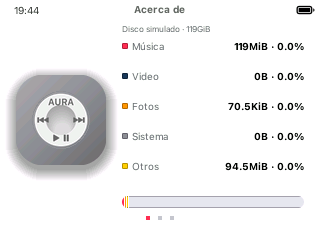
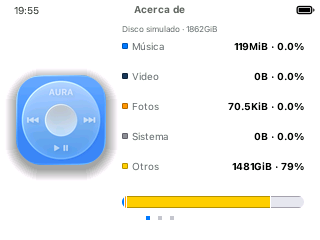
D-285: se retira el perfil de disco del sim (medicion dependiente del dispositivo); icono de Aura nuevo a tile completo, uno por tema
filesystem-unix.c vuelve exacto al estado previo a D-284: volume_size()
reporta el disco real (host en el sim, FAT del iPod en hardware). Se
conservan la linea de identidad SSD/HDD, la pagina 2 en secciones y los
albumes.

Icono: dos PNG del dueno -> aura_badge-light.bmp (tema claro, azul
claro) y aura_badge-dark.bmp (tema oscuro, fondo oscuro), 90x90 a tile
completo (tile_icons.items.aura_badge themed:true, size 90). El icono
trae radio del 31% = el del tile (28px), asi que la silueta coincide.
draw_about_icon_renderer() elige por tema y recarga si cambia. El tile
ahora redondea esquinas DESPUES del renderer (misma mascara para tiles
de simbolo y de imagen completa). Fuente aplanada de D-269 retirada.

Sim/ARM limpios, tests 8/8, capturas en ambos temas.

diff --git a/firmware/rockbox/apps/aura/aura_screens.c b/firmware/rockbox/apps/aura/aura_screens.c
@@ -1714,39 +1714,49 @@ static const char *clock_row_top_text(void)
     return buf;
 }
 
-/* Badge real de Aura (D-269, encargo del dueno de producto): a color
+/* Icono real de Aura (D-269, encargo del dueno de producto): a color
  * completo, NO un glifo monocromo para tenir -- reemplaza el "ipod"
  * blanco de D-263/D-264 SOLO en el icono de SelectionSummary de "Acerca
  * de" (el icono de la FILA en la lista, settings_entries[]="info", NO
  * cambia -- el dueno lo pidio explicito: "el icono que aparece en el
  * left panel no debe cambiar"). Horneado por design-system/generate.py
- * (generate_tile_icons()) a partir de un bundle .icon de Icon Composer
- * que el dueno compartio -- aplanado a mano (seis capas SVG
- * individuales, compuestas segun su propio icon.json) porque Aura no
- * tiene un renderer de Icon Composer real. Cargado UNA vez por sesion
- * (cache por bandera, nunca cambia en tiempo de ejecucion) -- mismo
- * patron read_bmp_file() que ensure_panel_background() en
- * aura_selection_summary.c (D-267), pero con lcd_bitmap_transparent()
- * (clave magenta, D-010) en vez de un blit opaco: el badge es un
- * circulo, sus 4 esquinas deben dejar ver el degradado del tile
- * detras. */
+ * (generate_tile_icons()). D-269 lo aplano a mano de un bundle .icon de
+ * Icon Composer como badge circular de 60px; D-285 lo reemplaza por las
+ * dos imagenes PNG que el dueno entrego (una por tema) a tile completo.
+ * Mismo patron read_bmp_file() que ensure_panel_background() (D-267),
+ * con lcd_bitmap_transparent() (clave magenta, D-010): las esquinas
+ * transparentes del icono dejan ver el fondo restaurado. */
 static fb_data s_aura_badge_pixels[AURA_DS_METRICS_TILE_ICONS_ITEMS_AURA_BADGE_SIZE
                                     * AURA_DS_METRICS_TILE_ICONS_ITEMS_AURA_BADGE_SIZE];
-static bool s_aura_badge_loaded = false;
+static int  s_aura_badge_theme = -1;   /* tema con el que se cargo el buffer */
 static bool s_aura_badge_ok = false;
 
+/* D-285 (encargo del dueno, dos imagenes del icono de Aura): el badge deja
+ * de ser un circulo de 60px sobre el degradado gris y pasa a ser la IMAGEN
+ * COMPLETA del icono cubriendo el tile de 90px -- una version por tema
+ * (aura_badge-light.bmp para el claro, aura_badge-dark.bmp para el oscuro,
+ * decision de asignacion: el icono de fondo oscuro va con el tema oscuro).
+ * El icono trae su propio cuadrado redondeado con radio del 31% (medido
+ * en la fuente: 317/1024), el mismo 31% (28px) del tile de D-236 -- por
+ * eso el recorte de esquinas del tile (que ahora corre DESPUES del
+ * renderer, ver aura_selection_summary_draw_tile) no deja crecientes y la
+ * silueta coincide con los demas tiles. Se recarga si el usuario cambia
+ * de tema en la sesion. La fila de la lista sigue con su icono "info"
+ * (regla de D-269: solo SelectionSummary). */
 static void draw_about_icon_renderer(int cx, int cy, int size)
 {
     enum { SZ = AURA_DS_METRICS_TILE_ICONS_ITEMS_AURA_BADGE_SIZE };
+    int theme = (aura_settings.theme == AURA_THEME_DARK) ? 1 : 0;
 
-    if (!s_aura_badge_loaded)
+    if (s_aura_badge_theme != theme)
     {
         char path[MAX_PATH];
         struct bitmap bm;
         int ret;
 
-        s_aura_badge_loaded = true;
-        snprintf(path, sizeof(path), "%s/aura/tile-icons/aura_badge.bmp", ICON_DIR);
+        s_aura_badge_theme = theme;
+        snprintf(path, sizeof(path), "%s/aura/tile-icons/aura_badge-%s.bmp", ICON_DIR,
+                 theme ? "dark" : "light");
         bm.data = (char *)s_aura_badge_pixels;
         ret = read_bmp_file(path, &bm, sizeof(s_aura_badge_pixels), FORMAT_NATIVE, NULL);
         s_aura_badge_ok = (ret > 0 && bm.width == SZ && bm.height == SZ);

diff --git a/firmware/rockbox/firmware/target/hosted/filesystem-unix.c b/firmware/rockbox/firmware/target/hosted/filesystem-unix.c
@@ -212,83 +212,12 @@ int os_opendir_and_fd(const char *osdirname, DIR **osdirpp, int *osfdp)
     return rc;
 }
 
-#ifdef SIMULATOR
-#include <stdlib.h>
-#include <dirent.h>
-#include <stdio.h>
-
-/* Aura (D-284): el simulador reportaba el disco del HOST (statfs sobre
- * la carpeta simdisk -> el SSD de la Mac, ~2 TB), asi que "Acerca de"
- * mostraba una capacidad que ningun iPod tiene. Perfil de disco de iPod
- * para el simulador: capacidad fija de 128 GB decimales (122070 MiB, lo
- * que trae el iPod del dueno con SSD de 128 GB), y el "usado" es la suma
- * REAL de bytes que hay dentro de simdisk (recorrido del host, milisegundos)
- * -- no se inventa espacio ocupado: el disco simulado contiene exactamente
- * lo que contiene simdisk. Variable de entorno AURA_SIM_DISK_MIB para
- * probar otras capacidades; AURA_SIM_DISK_MIB=0 vuelve al statfs del host
- * (comportamiento original de Rockbox). Solo SIMULATOR, nunca hardware. */
-#define AURA_SIM_DEFAULT_DISK_MIB 122070ULL
-
-static unsigned long long sim_dir_bytes(const char *path, int depth)
-{
-    DIR *d;
-    struct dirent *e;
-    unsigned long long total = 0;
-    char child[MAX_PATH];
-
-    if (depth > 24 || !(d = opendir(path)))
-        return 0;
-    while ((e = readdir(d)) != NULL)
-    {
-        struct stat st;
-        if (e->d_name[0] == '.' && (e->d_name[1] == '\0'
-            || (e->d_name[1] == '.' && e->d_name[2] == '\0')))
-            continue;
-        if (snprintf(child, sizeof(child), "%s/%s", path, e->d_name) >= (int)sizeof(child))
-            continue; /* ruta demasiado larga para el buffer: se omite */
-        if (lstat(child, &st) != 0)
-            continue;
-        if (S_ISDIR(st.st_mode))
-            total += sim_dir_bytes(child, depth + 1);
-        else if (S_ISREG(st.st_mode))
-            total += (unsigned long long)st.st_size;
-    }
-    closedir(d);
-    return total;
-}
-
-static bool sim_volume_profile(const char *volpath, sector_t *sizep, sector_t *freep)
-{
-    const char *env = getenv("AURA_SIM_DISK_MIB");
-    unsigned long long disk_mib = env ? strtoull(env, NULL, 10) : AURA_SIM_DEFAULT_DISK_MIB;
-    unsigned long long total_kib, used_kib;
-
-    if (disk_mib == 0)
-        return false; /* escape: statfs real del host */
-
-    total_kib = disk_mib * 1024ULL;
-    used_kib = (sim_dir_bytes(volpath, 0) + 1023ULL) / 1024ULL;
-    if (used_kib > total_kib)
-        used_kib = total_kib;
-
-    if (sizep) *sizep = (sector_t)total_kib;
-    if (freep) *freep = (sector_t)(total_kib - used_kib);
-    return true;
-}
-#endif /* SIMULATOR */
-
 /* do we really need this in the app? (in the sim, yes) */
 void volume_size(IF_MV(int volume,) sector_t *sizep, sector_t *freep)
 {
     sector_t size = 0, free = 0;
     char volpath[MAX_PATH];
     struct statfs fs;
-
-#ifdef SIMULATOR
-    if (os_volume_path(IF_MV(volume,) volpath, sizeof (volpath)) >= 0
-        && sim_volume_profile(volpath, sizep, freep))
-        return;
-#endif
 
     if (os_volume_path(IF_MV(volume,) volpath, sizeof (volpath)) >= 0
         && !statfs(volpath, &fs))

diff --git a/design-system/generate.py b/design-system/generate.py
@@ -634,29 +634,34 @@ def generate_tile_icons(tokens):
     TRANSPARENT_RGB = (255, 0, 255)
 
     for name, spec in cfg["items"].items():
-        src_path = src_dir / f"{name}-source.png"
-        if not src_path.exists():
-            die(f"falta {src_path} (icono de tile '{name}', declarado en "
-                f"aura_ds.metrics.tile_icons.items)")
-        size = spec["size"]
-        bg_rgb = hex_to_rgb(spec["compose_bg_hex"])
+        # D-285: 'themed' -> una fuente y una salida por tema
+        # (<name>-light / <name>-dark); si no, una sola (<name>).
+        variants = ["light", "dark"] if spec.get("themed") else [None]
+        for theme in variants:
+            stem = f"{name}-{theme}" if theme else name
+            src_path = src_dir / f"{stem}-source.png"
+            if not src_path.exists():
+                die(f"falta {src_path} (icono de tile '{name}', declarado en "
+                    f"aura_ds.metrics.tile_icons.items)")
+            size = spec["size"]
+            bg_rgb = hex_to_rgb(spec["compose_bg_hex"])
 
-        img = Image.open(src_path).convert("RGBA")
-        img = img.resize((size, size), Image.LANCZOS)
+            img = Image.open(src_path).convert("RGBA")
+            img = img.resize((size, size), Image.LANCZOS)
 
-        out_img = Image.new("RGB", (size, size), TRANSPARENT_RGB)
-        bg_img = Image.new("RGB", (size, size), bg_rgb)
-        alpha = img.split()[3]
-        composed = Image.composite(img.convert("RGB"), bg_img, alpha)
-        # Solo cobertura EXACTAMENTE cero se queda como clave de
-        # transparencia -- cualquier otra cosa (incluido el borde
-        # antialiasado) ya quedo pre-compuesta contra bg_rgb arriba.
-        zero_mask = alpha.point(lambda a: 255 if a == 0 else 0)
-        out_img.paste(composed, (0, 0))
-        out_img.paste(Image.new("RGB", (size, size), TRANSPARENT_RGB), (0, 0), zero_mask)
+            out_img = Image.new("RGB", (size, size), TRANSPARENT_RGB)
+            bg_img = Image.new("RGB", (size, size), bg_rgb)
+            alpha = img.split()[3]
+            composed = Image.composite(img.convert("RGB"), bg_img, alpha)
+            # Solo cobertura EXACTAMENTE cero se queda como clave de
+            # transparencia -- cualquier otra cosa (incluido el borde
+            # antialiasado) ya quedo pre-compuesta contra bg_rgb arriba.
+            zero_mask = alpha.point(lambda a: 255 if a == 0 else 0)
+            out_img.paste(composed, (0, 0))
+            out_img.paste(Image.new("RGB", (size, size), TRANSPARENT_RGB), (0, 0), zero_mask)
 
-        out_img.save(out_dir / f"{name}.bmp", format="BMP")
-        print(f"   {name} ({size}x{size}) -> {name}.bmp")
+            out_img.save(out_dir / f"{stem}.bmp", format="BMP")
+            print(f"   {stem} ({size}x{size}) -> {stem}.bmp")
 
 
 def main():

diff --git a/firmware/rockbox/apps/aura/aura_selection_summary.c b/firmware/rockbox/apps/aura/aura_selection_summary.c
@@ -417,17 +417,21 @@ void aura_selection_summary_draw_tile(int x, int y, aura_category_t category,
     aura_category_gradient(category, &tile_a, &tile_center, &tile_b);
     draw_diagonal_gradient(x, y, TILE_SIZE, tile_a, tile_center, tile_b);
 
-    a26_shell_round_bitmap_corners_over_content(x, y, TILE_SIZE, TILE_SIZE,
-                                                  TILE_RADIUS, saved_tile, TILE_SIZE);
-
     /* Simbolo: estatico (icono horneado, variante "-selector" blanco
      * constante, G5/T2.2) o dinamico (renderer real, B-04) -- mismo
-     * hueco centrado sobre el tile para los dos casos. */
+     * hueco centrado sobre el tile para los dos casos. D-285: se dibuja
+     * ANTES del recorte de esquinas (antes iba despues) para que un
+     * renderer que cubra el tile completo (el icono de Aura de "Acerca
+     * de") quede recortado con la MISMA mascara de radio 28 que el resto
+     * de tiles; para los simbolos centrados de 60px no cambia nada. */
     if (icon_name)
         aura_widgets_draw_icon_variant_selector(icon_name, SYMBOL_SIZE,
             x + (TILE_SIZE - SYMBOL_SIZE) / 2, y + (TILE_SIZE - SYMBOL_SIZE) / 2);
     else if (renderer)
         renderer(x + TILE_SIZE / 2, y + TILE_SIZE / 2, SYMBOL_SIZE);
+
+    a26_shell_round_bitmap_corners_over_content(x, y, TILE_SIZE, TILE_SIZE,
+                                                  TILE_RADIUS, saved_tile, TILE_SIZE);
 }
 
 /* D-281 (C1/Q3): degradado horizontal en tiempo real -- "gris" en el

diff --git a/DECISIONS.md b/DECISIONS.md
@@ -3509,4 +3509,16 @@ La página 3 (antes "Basado en Rockbox" a secas) se reemplazó por texto complet
 
 **Verificación**: `build_sim.sh` limpio (tres warnings nuevos míos —parámetro sin usar, variable sin usar, `-Wformat-truncation` en el recorrido del sim— corregidos antes de seguir, no dejados pasar); build ARM limpio (persiste solo el `-Wtype-limits` preexistente en `apple2026_shell.c:48`); `make -C firmware/rockbox/apps/aura/test test` 8/8. Capturas en `docs/screenshots/about-fixes/`: `page1-storage-expanded.png` (línea "Disco simulado · 119GiB", 5 filas, Otros 94.5 MiB) y `page2-counts.png` (tres secciones con ícono y color de categoría, Álbumes: 22). Doc: `componentes/about.md` actualizada (anatomía de páginas 1 y 2, tabla de fuentes de dato, origen).
 
+## D-285 — Se retira el perfil de disco del simulador (la medición depende del dispositivo); ícono de Aura nuevo a tile completo, uno por tema
+
+**Encargo del dueño**: "había olvidado que estamos en un simulador — me gustaría que esa info dependiera del dispositivo; creo que ya lo tenías correcto: regresa a la versión anterior de la medición del disco (dejando la segunda sección como está)". Y: "ayúdame a cambiar el ícono de Aura, te paso dos versiones, tú decide cuál va para el tema claro y cuál para el oscuro".
+
+**Revert quirúrgico**: `firmware/target/hosted/filesystem-unix.c` vuelve exactamente al estado previo a D-284 (`git checkout 80da200~1 -- …`, 71 líneas retiradas: `sim_volume_profile()`, `sim_dir_bytes()`, `AURA_SIM_DISK_MIB`). `volume_size()` en el simulador vuelve a reportar el disco del host vía `statfs` (comportamiento original de Rockbox) y en el iPod lee la FAT del disco real — la capacidad depende del dispositivo, como pidió el dueño. Todo lo demás de D-284 se conserva: la línea de identidad de la unidad (que ya dependía del dispositivo por construcción: ATA IDENTIFY, "Disco simulado" en el sim), la página 2 en secciones y el conteo de álbumes. Captura tras el revert: "Disco simulado · 1862GiB", "Otros" de vuelta al valor del host.
+
+**Ícono nuevo, dos imágenes**: PNG de 1024×1024 con esquinas transparentes — un cuadrado redondeado con la rueda de clic de Aura. Asignación: el de **fondo oscuro con rueda azul → tema oscuro**; el **azul claro → tema claro** (el fondo del panel de Acerca de es gris→`SHELL_BG` por tema desde D-281, así que cada versión va sobre el fondo que le corresponde). Medido en la fuente: el primer píxel opaco de la fila superior está en x=317/1024 → **radio del 31%**, que a 90px son 27.9px — el mismo 31% (28px) del tile de D-236. Es decir, el dueño diseñó el ícono a juego con el tile: por eso deja de ser un badge circular de 60px sobre el degradado gris (D-269) y pasa a **cubrir el tile completo** de 90×90. Pipeline: `tile_icons.items.aura_badge` pasa a `size: 90, themed: true`; `generate_tile_icons()` aprende `themed` (fuentes `<name>-light-source.png` / `<name>-dark-source.png`, salidas `<name>-light.bmp` / `<name>-dark.bmp`), la fuente aplanada a mano de D-269 (`aura_badge-source.png`) se retira del repo. Runtime: `draw_about_icon_renderer()` elige el BMP por `aura_settings.theme`, cachea uno y **recarga si el tema cambia** en la sesión (antes: una sola carga por bandera), y lo dibuja con `lcd_bitmap_transparent()` centrado en el tile (los 90px cubren el tile entero; las esquinas transparentes del ícono son clave magenta).
+
+**Cambio de orden en el tile, deliberado**: `aura_selection_summary_draw_tile()` redondeaba las esquinas (`a26_shell_round_bitmap_corners_over_content`, radio 28, restaurando el fondo real) **antes** de llamar al renderer — correcto para símbolos centrados de 60px, pero un renderer que cubre los 90px volvería a pintar las esquinas ya recortadas. Ahora el recorte corre **después** del renderer: cualquier tile, sea degradado+símbolo o imagen completa, sale con la misma máscara. Para los símbolos de 60px no cambia ni un píxel (están lejos de las esquinas). Como el radio del ícono (27.9) coincide con el del tile (28), no quedan crecientes de gris entre ambos arcos; la sombra SDF del tile (D-270) sigue debajo, sin cambio. La fila de la lista conserva su ícono "info" (regla de D-269, sin cambio).
+
+**Verificación**: `build_sim.sh` limpio (los dos BMP horneados: `aura_badge-light (90x90)`, `aura_badge-dark (90x90)`); build ARM limpio (persiste solo el `-Wtype-limits` preexistente); `make -C firmware/rockbox/apps/aura/test test` 8/8. Capturas en `docs/screenshots/about-fixes/`: `split-icon-light.png` (tile completo azul claro con su sombra, en split), `page1-storage-expanded.png` (el ícono viaja al expandido; disco del host de vuelta), `split-icon-dark.png` y `expanded-icon-dark.png` (tema oscuro con el ícono de fondo oscuro sobre el degradado oscuro de D-281). Una primera captura salió a mitad de la transición de entrada (arnés disparado a los 200 ticks) — repetida a 350 ticks; no era un defecto de dibujo. El tema del simulador se devolvió a claro al terminar. Doc: `componentes/about.md` y `componentes/selection-summary.md` (excepción de Acerca de actualizada, orden del recorte).
+
 *(Las siguientes decisiones se añaden conforme avanza la ejecución.)*

diff --git a/docs/aura-design-system/componentes/about.md b/docs/aura-design-system/componentes/about.md
@@ -201,7 +201,7 @@ nunca tuvo un fallback al manifiesto porque nunca vivió en él.
 | Sistema | En vivo: recorrido recursivo de `/.rockbox/`, cacheado por sesión | Casi constante mientras el dispositivo está encendido |
 | Otros | Residual: `total − libre − música − video − fotos − sistema` | En vivo |
 | Música (álbumes) | En vivo, tagcache (`aura_music_count_albums()`, D-284, mismo mecanismo que artistas) | En vivo |
-| Libre / Total | `volume_size()` — **corregido en D-280**: multiplicaba por `SECTOR_SIZE` (512) un valor que en realidad está en KiB, duplicando todos los porcentajes de contenido. **En el simulador (D-284)** ya no reporta el disco de la Mac: perfil fijo de 128 GB decimales (122 070 MiB, `AURA_SIM_DISK_MIB` para otras capacidades, `0` = statfs del host) con el usado real de `simdisk` — nunca espacio ocupado inventado | En vivo |
+| Libre / Total | `volume_size()` — **corregido en D-280**: multiplicaba por `SECTOR_SIZE` (512) un valor que en realidad está en KiB, duplicando todos los porcentajes de contenido. Depende del **dispositivo real**: en el iPod lee la FAT del disco; en el simulador reporta el disco del host (decisión del dueño, D-285: el perfil fijo de 128 GB que D-284 había puesto en el simulador se retiró el mismo día — la medición debe depender del dispositivo, no de una constante) | En vivo |
 | Tipo y modelo de la unidad | ATA IDENTIFY (`storage_get_identify()`, palabras 27–46 y 217) | Fijo mientras no se cambie el disco; "Disco simulado" en el simulador |
 
 **Por qué no un escaneo real de `/Music` sin dircache**: recorrer
@@ -283,11 +283,17 @@ otra fila de Ajustes tiene un estado `FULL-CARRY` propio hoy).
 - D-283 (2026-08-16): Estado 2 (conteos, con Aura Studio clasificando
   video/fotos), Estado 3 (créditos + corrección GPL v2), tile persistente
   en las 3 páginas, `Fade-Slide` de región entre páginas.
-- D-284 (2026-08-16): perfil de disco de 128 GB para el simulador (antes
-  mostraba el disco de la Mac); línea de identidad de la unidad (SSD/HDD
-  por ATA IDENTIFY + modelo + capacidad) en la página 1; página 2
-  reorganizada en secciones Música/Videos/Fotos con ícono y color de
-  categoría; álbumes contados.
+- D-284 (2026-08-16): línea de identidad de la unidad (SSD/HDD por ATA
+  IDENTIFY + modelo + capacidad) en la página 1; página 2 reorganizada en
+  secciones Música/Videos/Fotos con ícono y color de categoría; álbumes
+  contados. (El perfil de disco de 128 GB para el simulador que traía se
+  retiró en D-285 por decisión del dueño.)
+- D-285 (2026-08-16): ícono de Aura nuevo a **tile completo** (90×90, dos
+  imágenes del dueño: azul claro para el tema claro, fondo oscuro para el
+  oscuro), reemplaza al badge circular de 60px de D-269; el recorte de
+  esquinas del tile corre después del renderer para que la silueta
+  coincida con los demás tiles (el ícono trae radio del 31%, el mismo del
+  tile).
 
 ## Pendiente de definir
 

diff --git a/docs/aura-design-system/componentes/selection-summary.md b/docs/aura-design-system/componentes/selection-summary.md
@@ -205,7 +205,7 @@ falta producir un ícono único por cada ítem de todo el árbol de menús
 (Música, Videos, Fotos, Podcasts, Extras, Ajustes y todos sus submenús) —
 eso es trabajo de producción de assets, no una pregunta de sistema pendiente.
 
-**Única excepción hoy — Acerca de (D-269):** en `SelectionSummary` (y
+**Única excepción hoy — Acerca de (D-269, actualizada en D-285):** en `SelectionSummary` (y
 solo ahí) la fila "Acerca de" muestra el **ícono real de Aura a color
 completo** (badge circular, pipeline `tile_icons` en `tokens.json`,
 horneado desde el bundle de Icon Composer del proyecto) en vez del
@@ -213,6 +213,8 @@ símbolo blanco `-selector`. La fila correspondiente en `LeftPanel`
 conserva su glifo monocromo normal ("info"). Es la única fila que rompe
 la regla "símbolo blanco sobre tile de color"; cualquier otra excepción
 futura debe documentarse aquí.
+
+Desde D-285 ese ícono cubre el **tile completo** (90×90, con su propio cuadrado redondeado del 31% — el mismo radio del tile) en vez de ser un badge circular de 60px sobre el degradado, y tiene **una versión por tema** (`aura_badge-light.bmp` / `aura_badge-dark.bmp`, `tile_icons.items.aura_badge.themed`). Para que un renderer a tile completo quede recortado con la misma máscara que los demás tiles, `aura_selection_summary_draw_tile()` ahora redondea las esquinas **después** del renderer (antes, después del degradado y antes del símbolo).
 
 ## Texto: `MarqueeText`
 
